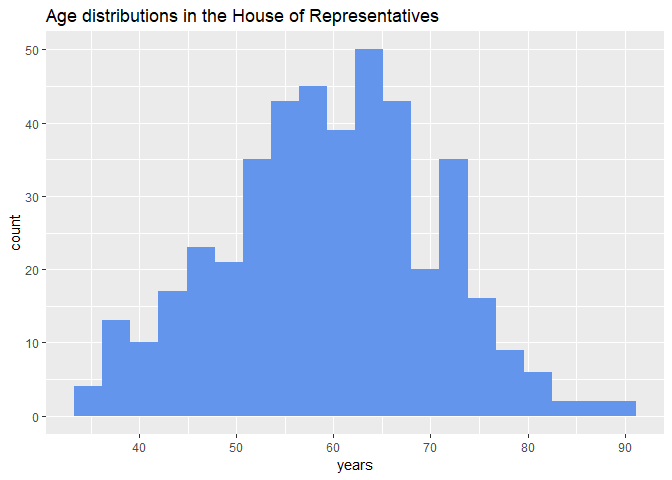
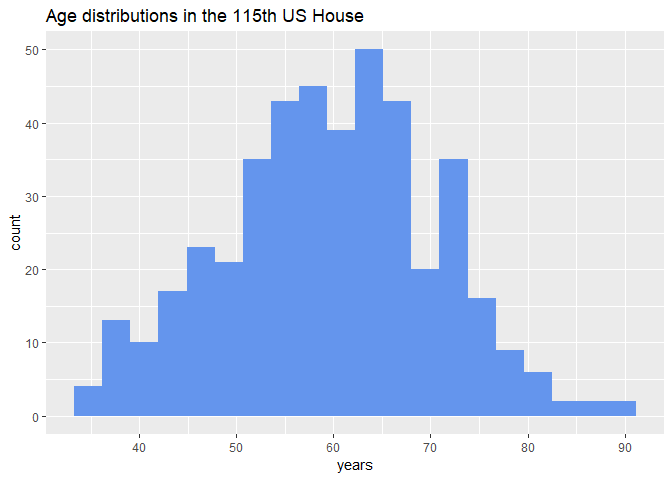
re

Changed region(s): [[0.3438, 0.0, 0.6562, 0.0625]]

diff --git a/README.md b/README.md
@@ -1,5 +1,17 @@
+-   [Federal election data & R: some resources](#federal-election-data-r-some-resources)
+    -   [$1. VoteView & things](#voteview-things)
+    -   [CivilServiceUSA](#civilserviceusa)
+    -   [Using `rtweets` & lists](#using-rtweets-lists)
+    -   [Political geometries via the `tigris` package](#political-geometries-via-the-tigris-package)
+    -   [Presidential elections (& others)](#presidential-elections-others)
+    -   [Some census play](#some-census-play)
+    -   [Some funky geographies from Daily Kos.](#some-funky-geographies-from-daily-kos.)
+    -   [A work in progress.](#a-work-in-progress.)
+
 Federal election data & R: some resources
 -----------------------------------------
+
+Many of the data collated here should be more easily accessible. In this age of alleged dat transparency, sources like 538 & CNN (especially the former) present ...
 
 A collection of political data resources. --- And perhaps formally aggregate/collate some of these resources.
 
@@ -24,7 +36,7 @@ library(formattable)
 
 ------------------------------------------------------------------------
 
-### §1. VoteView & things
+### $1. VoteView & things
 
 Senate/House details by congress. Perhaps add 'divergent' visual over time.
 
@@ -104,7 +116,7 @@ house_dets %>%
             lubridate::year(as.Date(date_of_birth))) %>%
   ggplot (aes(years)) +
   geom_histogram(bins=20, fill = 'cornflowerblue') +
-  labs(title = 'Age distributions in the House of Representatives')
+  labs(title = 'Age distributions in the 115th US House')
 ```
 
 ![](README_files/figure-markdown_github/unnamed-chunk-8-1.png)
@@ -119,9 +131,39 @@ house_dets %>%
 
 ------------------------------------------------------------------------
 
+### Political geometries via the `tigris` package
+
+``` r
+library(tigris); options(tigris_use_cache = TRUE, tigris_class = "sf")
+```
+
+    ## Warning: package 'tigris' was built under R version 3.4.4
+
+    ## To enable 
+    ## caching of data, set `options(tigris_use_cache = TRUE)` in your R script or .Rprofile.
+
+    ## 
+    ## Attaching package: 'tigris'
+
+    ## The following object is masked from 'package:graphics':
+    ## 
+    ##     plot
+
+``` r
+us_house_districts <- tigris::congressional_districts(cb = TRUE) %>% select(GEOID,STATEFP, CD115FP) %>%
+  
+  left_join(tigris::states(cb = TRUE) %>% 
+              data.frame() %>%
+              select(STATEFP, STUSPS)) 
+```
+
+    ## Joining, by = "STATEFP"
+
+------------------------------------------------------------------------
+
 ### Presidential elections (& others)
 
-[Daily KOS data sets](https://www.dailykos.com/stories/2018/2/21/1742660/-The-ultimate-Daily-Kos-Elections-guide-to-all-of-our-data-sets)
+[Daily Kos data sets](https://www.dailykos.com/stories/2018/2/21/1742660/-The-ultimate-Daily-Kos-Elections-guide-to-all-of-our-data-sets)
 
 As list, perhaps -- ? Using DailyKOS & `gsheets`.
 
@@ -147,7 +189,8 @@ fix <- as.data.frame(cbind(colnames(house), as.character(house[1,])),
   string_as_factor = FALSE) %>%
   mutate(V1 = gsub('^X', NA, V1)) %>%
   fill(V1) %>%
-  mutate(nw_cols = ifelse(is.na(V2), V1, paste0(V1, '_', V2)))
+  mutate(nw_cols = ifelse(is.na(V2), V1, paste0(V1, '_', V2)),
+         nw_cols = gsub(' ', '_', nw_cols))
 
 colnames(house) <- fix$nw_cols
 
@@ -155,6 +198,21 @@ house <- house %>% slice(3:nrow(.))
 
 keeps <- house[,!grepl('Pronun|ACS|Census|Survey', colnames(house))]
 ```
+
+Presidential elections (for now).
+
+``` r
+dailykos_pres_elections <- keeps [,c('District', 'Code', grep('President_[A-z]', colnames(house), value=T))] %>%
+  gather (key = election, value = percent, `2016_President_Clinton`:`2008_President_McCain`) %>%
+  mutate(election = gsub('President_', '', election),
+         percent = as.numeric(percent)) %>%
+  separate(Code, c('STUSPS', 'CD115FP')) %>%
+  separate(election, c('year', 'candidate'))%>%
+  mutate(CD115FP = ifelse(CD115FP == 'AL', '00', CD115FP)) %>%
+  left_join(us_house_districts)
+```
+
+    ## Joining, by = c("STUSPS", "CD115FP")
 
 ------------------------------------------------------------------------
 
@@ -181,11 +239,6 @@ race_table <- as.data.frame(cbind(code,race),
                             stringsAsFactors=FALSE)
 ```
 
-``` r
-library(tigris); options(tigris_use_cache = TRUE, tigris_class = "sf")
-us_house_districts <- tigris::congressional_districts(cb = TRUE)
-```
-
 C15002: SEX BY EDUCATIONAL ATTAINMENT FOR THE POPULATION 25 YEARS AND OVER
 
 ``` r
@@ -209,19 +262,39 @@ data <- tidycensus::get_acs(geography = 'congressional district',
   select(GEOID, label, gender, race, estimate:summary_moe)
 ```
 
-Create plots of some cherry-picked district cross-sections (per Daily Kos).
+White men without college degree. As percentage of total population over 25. ie, as a percentage of the electorate.
 
 ``` r
-types <- c('College White', 'Non-College White',
-           'College Non-White', 'Non-College Non-White')
+#Non-continental US
+nonx <- c('78', '69', '66', '72', '60', '15', '02')
+  
+us_house_districts %>% 
+  left_join(data %>% 
+              filter(label != 'Bachelor\'s degree or higher' &
+                       gender == 'Male' & 
+                       race == 'WHITE ALONE, NOT HISPANIC OR LATINO')) %>%
+  mutate(per = estimate / summary_est) %>%
+  filter(!gsub('..$' ,'', GEOID) %in% nonx) %>%
+  ggplot() + 
+  geom_sf(aes(fill = per)) + #, color = 'darkgray'
+  
+  scale_fill_distiller(palette='PRGn')+
+  
+  theme(axis.title.x=element_blank(),
+        axis.text.x=element_blank(),
+        axis.title.y=element_blank(),
+        axis.text.y=element_blank(),
+        legend.position = 'bottom') +
+  labs(title = "% no degree White males by congressional district")
 ```
 
+![](README_files/figure-markdown_github/unnamed-chunk-16-1.png)
+
+Create plots of some cherry-picked district cross-sections (per Daily Kos).
+
+Definitions: WHITE ALONE means/equals all the whites, hispanic or otherwise. OR, WHITE ALONE, HISPANIC + WHITE ALONE, NOT HISPANIC.
+
 ``` r
-#Create a WHITE ALONE, NOT HISPANIC category here.  As mutually exculsive.  
-#HOW?? --> WHITE ALONE means/equals all the whites, hispanic or otherwise.  OR, WHITE ALONE, HISPANIC + WHITE ALONE, NOT HISPANIC.   
-
-#Importantly, all other non-White/Hispanics are already POCs.
-
 tree <- data %>%
   mutate (race = gsub(', | ', '_', race)) %>%
   select(-moe:-summary_moe) %>%
@@ -267,39 +340,38 @@ tree %>%
       labs(title = "Educational attainment by race for population over 25")
 ```
 
-![](README_files/figure-markdown_github/unnamed-chunk-17-1.png)
+![](README_files/figure-markdown_github/unnamed-chunk-18-1.png)
 
 ``` r
 #Add Year + Source.  
 ```
 
-White men without college degree. As percentage of total population over 25. ie, as a percentage of the electorate.
+Trump ed/race dems by binned degrees of support.
 
 ``` r
-#Non-continental US
-nonx <- c('78', '69', '66', '72', '60', '15', '02')
+x <- dailykos_pres_elections %>%
+  filter(candidate == 'Trump') %>%
+  mutate(cut = cut_number(percent, n =10),
+         rank_cut = dense_rank(cut)) %>%
+
+  left_join(tree) %>%
+  mutate(type = paste0(race_cat, ' ', ed_cat))%>%
+  select(type, rank_cut, estimate) %>%
+  group_by(type, rank_cut) %>%
   
-us_house_districts %>% 
-  left_join(data %>% 
-              filter(label != 'Bachelor\'s degree or higher' &
-                       gender == 'Male' & 
-                       race == 'WHITE ALONE, NOT HISPANIC OR LATINO')) %>%
-  mutate(per = estimate / summary_est) %>%
-  filter(!gsub('..$' ,'', GEOID) %in% nonx) %>%
-  ggplot() + 
-  geom_sf(aes(fill = per)) + #, color = 'darkgray'
+  summarize(estimate = sum(estimate)) %>%
   
-  scale_fill_distiller(palette='PRGn')+
+  group_by(rank_cut)%>%
+  mutate(new_per = estimate/sum(estimate)) %>%
   
-  theme(axis.title.x=element_blank(),
-        axis.text.x=element_blank(),
-        axis.title.y=element_blank(),
-        axis.text.y=element_blank(),
-        legend.position = 'bottom') +
-  labs(title = "% no degree White males by congressional district")
+  ggplot(aes(x=(rank_cut), y=new_per, fill = type)) +
+  geom_area(alpha = 0.75, color = 'gray') +
+  ggthemes::scale_fill_economist()+
+  theme(legend.position = "bottom")+
+  labs(title = "Composition of corpus (in tokens) over time")
 ```
 
-![](README_files/figure-markdown_github/unnamed-chunk-18-1.png)
+    ## Joining, by = "GEOID"
 
 ------------------------------------------------------------------------
 
